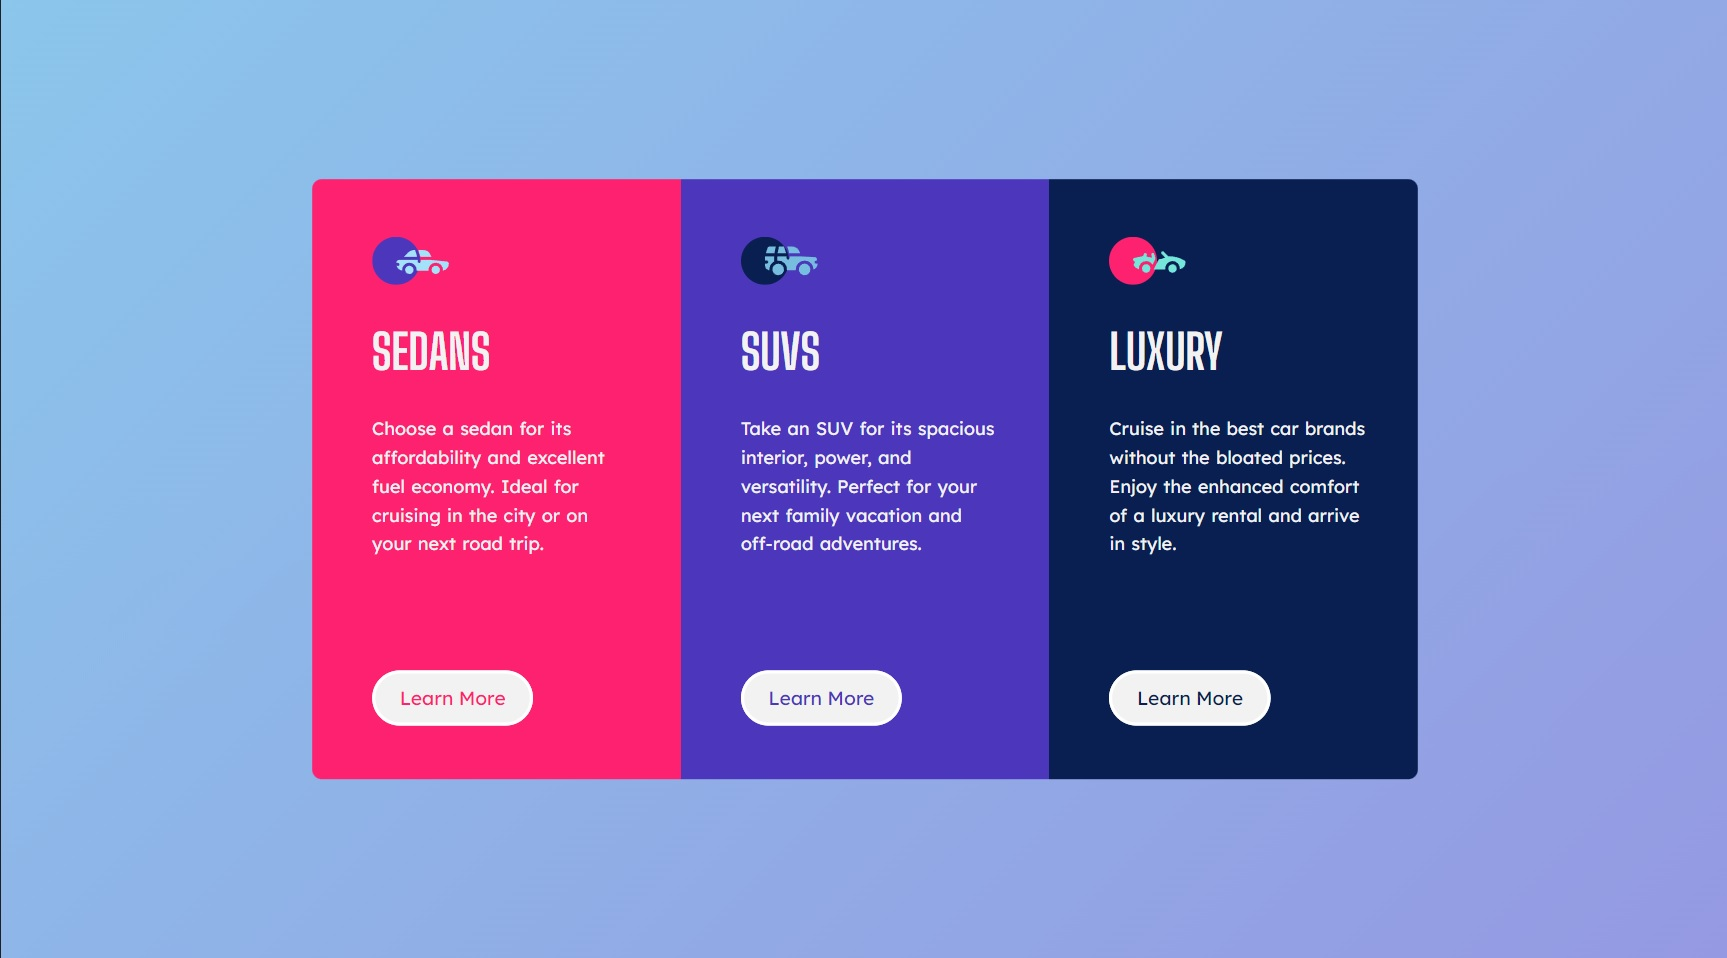
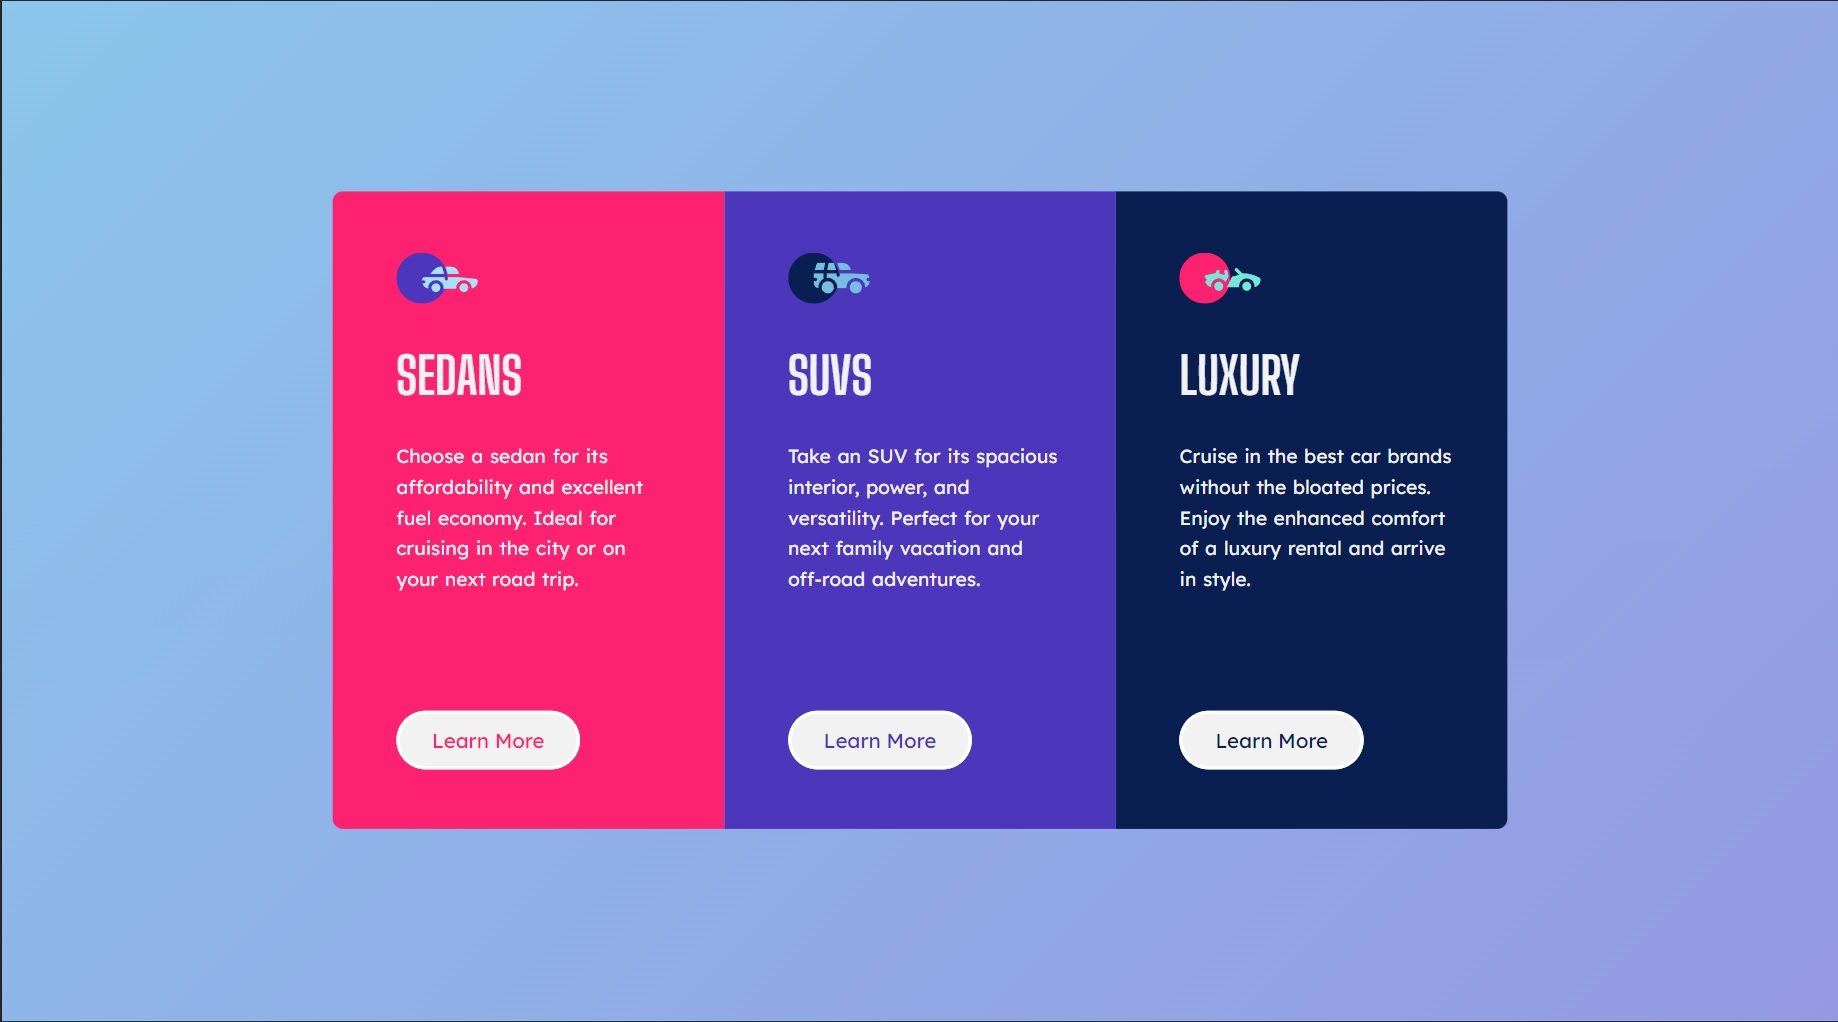
updates css & images

diff --git a/index.css b/index.css
@@ -65,7 +65,7 @@ a {
 .container p {
     font-family: "Lexend Deca", sans-serif;
     line-height: 1.8;
-    margin-bottom: 1.5rem;
+    margin-bottom: 2.25rem;
 }
 
 .container .sedans {
@@ -88,7 +88,7 @@ a {
     font-family: "Lexend Deca", sans-serif;
     font-size: 1rem;
     font-weight: 400;
-    padding: 0.625rem 1.25rem;
+    padding: 0.625rem 1.563rem;
     border: 3px solid white;
     border-radius: 2rem;
     cursor: pointer;
@@ -145,7 +145,7 @@ a {
         font-size: 0.938rem;
         line-height: 1.6;
         word-spacing: 1px;
-        margin-bottom: 6.65rem;
+        margin-bottom: 6.5rem;
     }
 
     .container .sedans {
